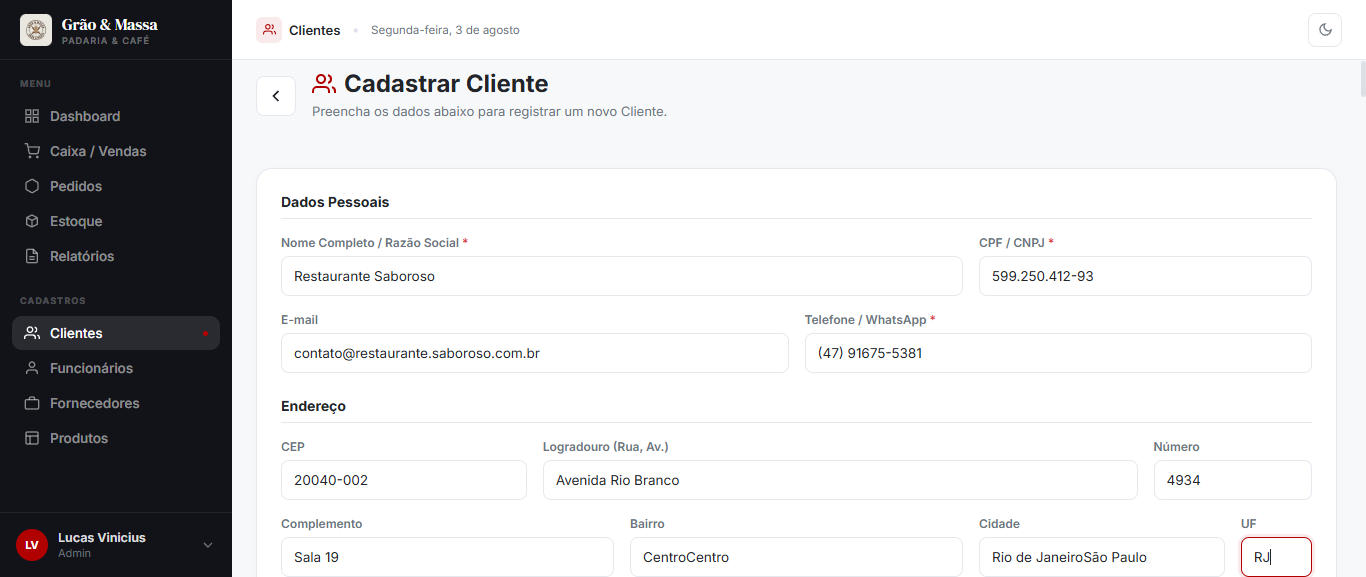
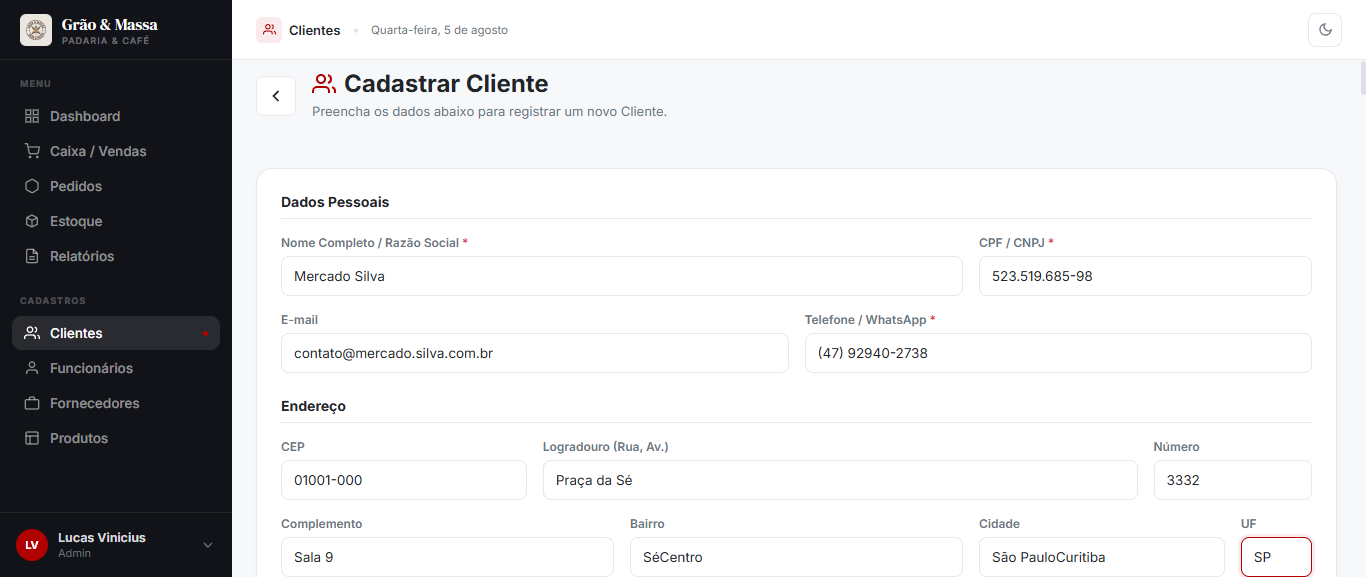
Commit produtos
Produtos corrigido

diff --git a/TesteCadastroClientes/dashboard.html b/TesteCadastroClientes/dashboard.html
@@ -24,8 +24,8 @@
             <div class="container">
                 <h1>Relatório de Automação: Cadastro de Clientes</h1>
                 <div class="summary">
-                    <div class="card"><h3>Total Cadastros</h3><h2>1</h2></div>
-                    <div class="card"><h3 class="status-sucesso">Sucessos</h3><h2>1</h2></div>
+                    <div class="card"><h3>Total Cadastros</h3><h2>2</h2></div>
+                    <div class="card"><h3 class="status-sucesso">Sucessos</h3><h2>2</h2></div>
                     <div class="card"><h3 class="status-falha">Falhas</h3><h2>0</h2></div>
                 </div>
                 <table>
@@ -41,9 +41,16 @@
         
                 <tr>
                     <td>1</td>
-                    <td>Restaurante Saboroso</td>
+                    <td>Mercado Silva</td>
                     <td class="status-sucesso">Sucesso</td>
                     <td><a class="img-link" href="cadastro_cliente_1.png" target="_blank">Visualizar Screenshot</a></td>
+                </tr>
+            
+                <tr>
+                    <td>2</td>
+                    <td>Restaurante Saboroso</td>
+                    <td class="status-sucesso">Sucesso</td>
+                    <td><a class="img-link" href="cadastro_cliente_2.png" target="_blank">Visualizar Screenshot</a></td>
                 </tr>
             
                     </tbody>

diff --git a/Teste Python/cliente.py b/Teste Python/cliente.py
@@ -148,7 +148,7 @@ class TesteAutomatizadoCliente:
         return caminho_html
 
     def executar_teste_completo(self, quantidade):
-        # ---> TEMPO DE PAUSA ENTRE OS CAMPOS (em segundos) <---
+        # TEMPO DE PAUSA ENTRE OS CAMPOS
         pausa_digitacao = 0.5 
         
         for i in range(quantidade):
@@ -175,7 +175,7 @@ class TesteAutomatizadoCliente:
                 time.sleep(pausa_digitacao)
                 
                 self.driver.find_element(By.NAME, "nCep").send_keys(dados["nCep"])
-                time.sleep(2) # Pausa maior pro CEP caso puxe endereço automático
+                time.sleep(2) # Pausa maior pro CEP
                 
                 self.driver.find_element(By.NAME, "nLogradouro").send_keys(dados["nLogradouro"])
                 time.sleep(pausa_digitacao)
@@ -193,20 +193,20 @@ class TesteAutomatizadoCliente:
                 time.sleep(pausa_digitacao)
                 
                 self.driver.find_element(By.NAME, "nUf").send_keys(dados["nUf"])
-                time.sleep(1) # Pausa para você conseguir olhar a tela pronta
+                time.sleep(1) 
                 
                 nome_print = self.tirar_screenshot(f"cadastro_cliente_{i+1}.png")
                 
-                # Clica em salvar
+                # salvar
                 self.driver.find_element(By.XPATH, "//button[@type='submit']").click()
                 
-                time.sleep(3) # Aguarda 3 segundos para o PHP salvar no banco
+                time.sleep(3)
                 
                 codigo_fonte = self.driver.page_source.lower()
                 if "msg=sucesso" in self.driver.current_url.lower() or "cadastrado com sucesso" in codigo_fonte or "cadastrar cliente" in codigo_fonte:
                     status = "Sucesso"
                 
-                # Espera mais um pouco antes de iniciar o próximo laço (cliente seguinte)
+                # Espera mais um pouco iniciar o próximo loop
                 time.sleep(2) 
                 
             except Exception as e:
@@ -236,7 +236,7 @@ if __name__ == "__main__":
     try:
         qtd = int(input("Quantos clientes você deseja cadastrar automaticamente? "))
         if qtd > 0:
-            URL_LOGIN = "http://localhost:8080/Github/Padaria_grao_massa/index.php" 
+            URL_LOGIN = "http://localhost:8080/github/Padaria_grao_massa/login.php" 
             URL_CADASTRO = "http://localhost:8080/Github/Padaria_grao_massa/Cadastrar_Cliente.php"
             
             teste = TesteAutomatizadoCliente(url_login=URL_LOGIN, url_cadastro=URL_CADASTRO)

diff --git a/PHP/salvaProdutos.php b/PHP/salvaProdutos.php
@@ -48,14 +48,14 @@ $msg = '';
 
 if ($opcao == 'I') {
     $stmt = mysqli_prepare($conn, "INSERT INTO produtos (nome_produto, codigo, categoria, preco, estoque, descricao, imagem_url, produto_ativo, destaque_cardapio) VALUES (?, ?, ?, ?, ?, ?, ?, ?, ?)");
-    mysqli_stmt_bind_param($stmt, "sssdis sii", $nome_produto, $codigo, $categoria, $preco, $estoque, $descricao, $imagem_url, $produto_ativo, $destaque_cardapio);
+    mysqli_stmt_bind_param($stmt, "sssdissii", $nome_produto, $codigo, $categoria, $preco, $estoque, $descricao, $imagem_url, $produto_ativo, $destaque_cardapio);
     mysqli_stmt_execute($stmt);
     mysqli_stmt_close($stmt);
     $msg = 'sucesso';
 
 } elseif ($opcao == 'U' && $id > 0) {
     $stmt = mysqli_prepare($conn, "UPDATE produtos SET nome_produto = ?, codigo = ?, categoria = ?, preco = ?, estoque = ?, descricao = ?, imagem_url = ?, produto_ativo = ?, destaque_cardapio = ? WHERE id = ?");
-    mysqli_stmt_bind_param($stmt, "sssdis siii", $nome_produto, $codigo, $categoria, $preco, $estoque, $descricao, $imagem_url, $produto_ativo, $destaque_cardapio, $id);
+    mysqli_stmt_bind_param($stmt, "sssdissiii", $nome_produto, $codigo, $categoria, $preco, $estoque, $descricao, $imagem_url, $produto_ativo, $destaque_cardapio, $id);
     mysqli_stmt_execute($stmt);
     mysqli_stmt_close($stmt);
     $msg = 'atualizado';
